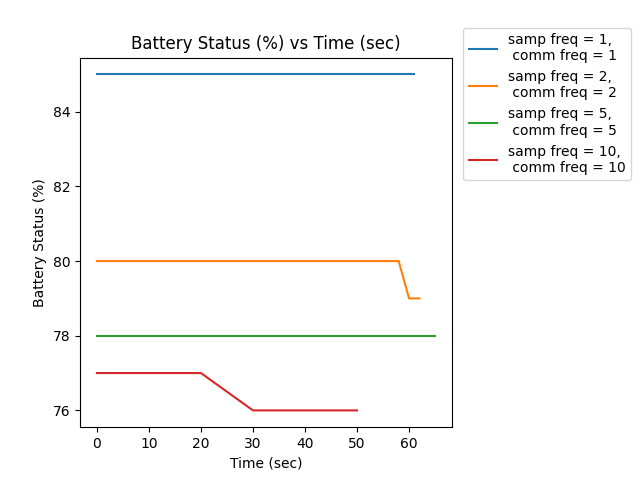
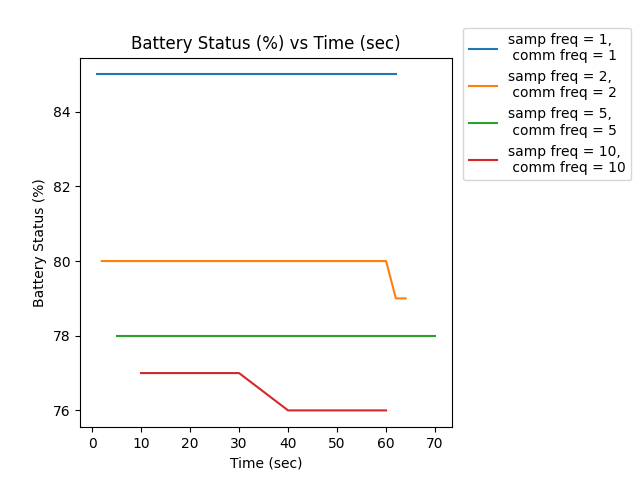
Adjusted the values for x-axis to properly reflect time at which samples were sampled

diff --git a/generate_graphs.py b/generate_graphs.py
@@ -68,8 +68,11 @@ def generate_battery_graphs(title, ylabel, xlabel, list_of_dir, savename):
                             line = line[line.find('Battery Status - ') + 17 :]
                             battery_status = line[:line.find('%')]
                             y.append(int(battery_status))
-                        
-                    x = range(0, len(y) * sampling_frequency, sampling_frequency)
+                    
+
+                    # create x values
+                    x = range(sampling_frequency, (len(y) + 1) * sampling_frequency, sampling_frequency)
+
                     ax.plot(x, y, label = f'samp freq = {sampling_frequency},\n comm freq = {communication_frequency}')
 
     # set titles
